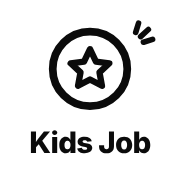
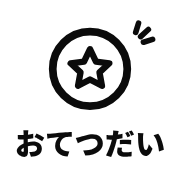
v13: アイコンの文字を「おてつだい」に
Claude-Session: https://claude.ai/code/session_01FUK7GNV4cxkx9ZonUYMxCf

Changed region(s): [[0.0833, 0.7222, 0.9167, 0.8889]]

diff --git a/kids-job.html b/kids-job.html
@@ -9,8 +9,8 @@
 <meta name="theme-color" content="#2B54F0">
 <meta name="color-scheme" content="light dark">
 <title>おてつだいポイント</title>
-<link rel="apple-touch-icon" sizes="180x180" href="apple-touch-icon.png?v=11">
-<link rel="icon" type="image/svg+xml" href="icon.svg?v=11">
+<link rel="apple-touch-icon" sizes="180x180" href="apple-touch-icon.png?v=13">
+<link rel="icon" type="image/svg+xml" href="icon.svg?v=13">
 <link rel="preconnect" href="https://fonts.googleapis.com">
 <link rel="preconnect" href="https://fonts.gstatic.com" crossorigin>
 <link href="https://fonts.googleapis.com/css2?family=Fredoka:wght@500;600;700&family=Zen+Maru+Gothic:wght@500;700;900&display=swap" rel="stylesheet">
@@ -173,7 +173,7 @@ var firebaseConfig={
 };
 /* ログインに使う2つのアカウント(メールは本物でなくてOK)。
    Firebaseの「ルール」にも、同じ PARENT_EMAIL を書いてあります。 */
-var APP_VERSION='v12 (2026-10-16)';
+var APP_VERSION='v13 (2026-10-16)';
 var PARENT_EMAIL='oya@example.com';
 var KID_EMAIL='kodomo@example.com';
 
